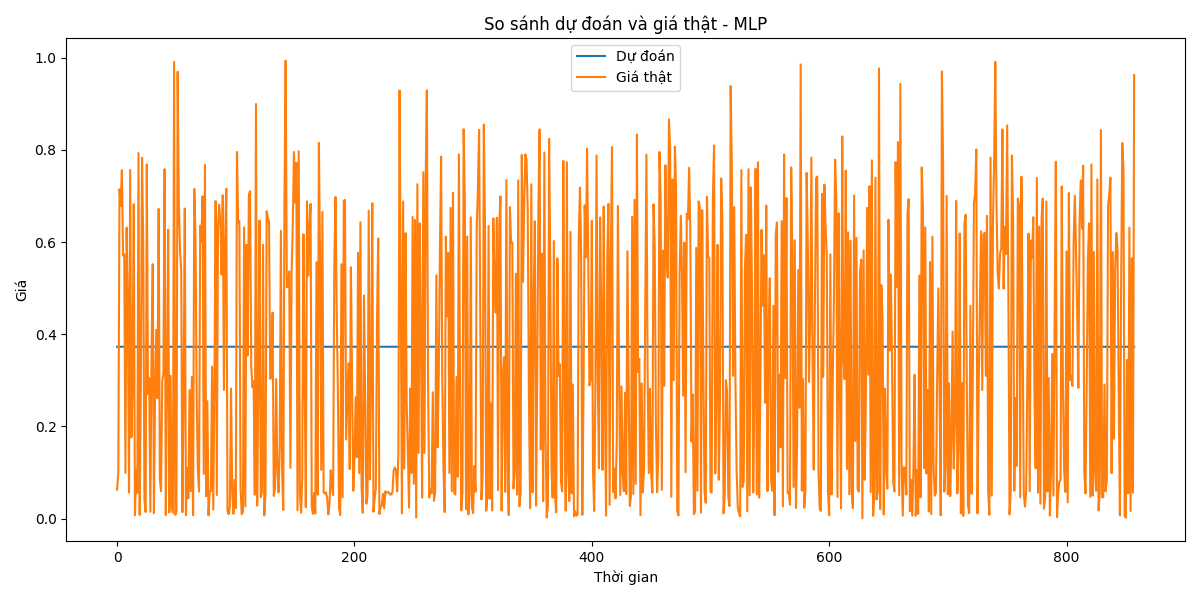
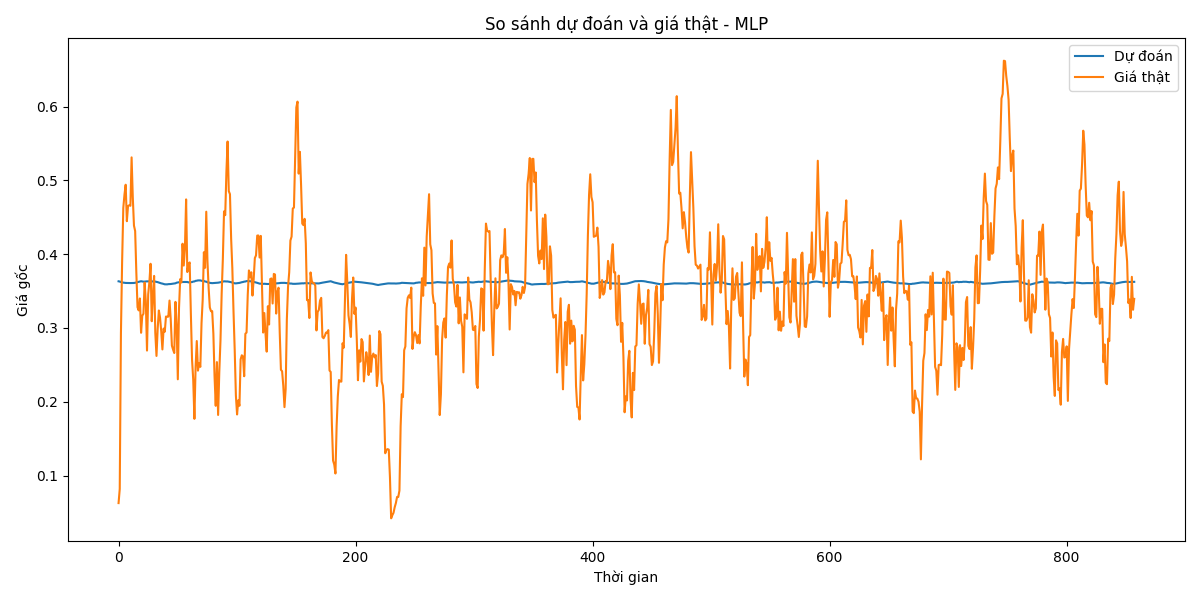
Update Final (Exercise2)

diff --git a/stock_prediction.py b/stock_prediction.py
@@ -7,7 +7,7 @@ from sklearn.model_selection import train_test_split, GridSearchCV, learning_cur
 from sklearn.metrics import mean_squared_error, r2_score
 import tensorflow as tf
 from tensorflow.keras.models import Sequential
-from tensorflow.keras.layers import Dense, LSTM, GRU, Dropout, BatchNormalization, Input
+from tensorflow.keras.layers import Dense, LSTM, GRU, Dropout, BatchNormalization, Input, LeakyReLU, Bidirectional, LayerNormalization
 from tensorflow.keras.callbacks import EarlyStopping
 from tensorflow.keras.regularizers import l1_l2
 from sklearn.linear_model import Ridge, Lasso, LinearRegression
@@ -112,45 +112,51 @@ def calculate_bollinger_bands(prices, window=20):
 
 def create_mlp_model(input_shape):
     """
-    Tạo mô hình MLP cải tiến
+    Tạo mô hình MLP cải tiến hơn: nhiều layer hơn, units lớn hơn, thêm BatchNormalization, Dropout, LeakyReLU
     """
-    model = Sequential([
-        Input(shape=input_shape),
-        Dense(128, activation='relu', 
-              kernel_regularizer=l1_l2(l1=0.01, l2=0.01)),
-        BatchNormalization(),
-        Dropout(0.3),
-        Dense(64, activation='relu',
-              kernel_regularizer=l1_l2(l1=0.01, l2=0.01)),
-        BatchNormalization(),
-        Dropout(0.3),
-        Dense(32, activation='relu',
-              kernel_regularizer=l1_l2(l1=0.01, l2=0.01)),
-        BatchNormalization(),
-        Dropout(0.3),
-        Dense(1)
-    ])
-    model.compile(optimizer='adam', loss='mse')
+    model = Sequential()
+    model.add(Input(shape=input_shape))
+    model.add(Dense(256))
+    model.add(LeakyReLU(alpha=0.1))
+    model.add(BatchNormalization())
+    model.add(Dropout(0.4))
+    model.add(Dense(128))
+    model.add(LeakyReLU(alpha=0.1))
+    model.add(BatchNormalization())
+    model.add(Dropout(0.3))
+    model.add(Dense(64))
+    model.add(LeakyReLU(alpha=0.1))
+    model.add(BatchNormalization())
+    model.add(Dropout(0.2))
+    model.add(Dense(32))
+    model.add(LeakyReLU(alpha=0.1))
+    model.add(BatchNormalization())
+    model.add(Dropout(0.1))
+    model.add(Dense(1))
+    model.compile(optimizer=tf.keras.optimizers.Adam(learning_rate=0.0005), loss='mse')
     return model
 
 def create_rnn_model(input_shape):
     """
-    Tạo mô hình RNN cải tiến: Kết hợp LSTM và GRU, tăng số units, thêm BatchNormalization, giảm learning rate, điều chỉnh Dropout.
+    Tạo mô hình RNN cải tiến sâu hơn: Nhiều lớp Bidirectional LSTM và GRU, thêm LayerNormalization, Dropout lớn hơn, thử Attention nếu có, learning rate scheduler.
     """
-    model = Sequential([
-        Input(shape=input_shape),
-        LSTM(128, return_sequences=True, kernel_regularizer=l1_l2(l1=0.005, l2=0.005)),
-        BatchNormalization(),
-        Dropout(0.4),
-        GRU(64, return_sequences=True, kernel_regularizer=l1_l2(l1=0.005, l2=0.005)),
-        BatchNormalization(),
-        Dropout(0.3),
-        GRU(32, kernel_regularizer=l1_l2(l1=0.005, l2=0.005)),
-        BatchNormalization(),
-        Dropout(0.2),
-        Dense(1)
-    ])
-    optimizer = tf.keras.optimizers.Adam(learning_rate=0.0005)
+    model = Sequential()
+    model.add(Input(shape=input_shape))
+    model.add(Bidirectional(LSTM(128, return_sequences=True, kernel_regularizer=l1_l2(l1=0.002, l2=0.002))))
+    model.add(LayerNormalization())
+    model.add(Dropout(0.5))
+    model.add(Bidirectional(LSTM(64, return_sequences=True, kernel_regularizer=l1_l2(l1=0.002, l2=0.002))))
+    model.add(LayerNormalization())
+    model.add(Dropout(0.4))
+    model.add(Bidirectional(GRU(32, return_sequences=True, kernel_regularizer=l1_l2(l1=0.002, l2=0.002))))
+    model.add(LayerNormalization())
+    model.add(Dropout(0.3))
+    model.add(GRU(16, return_sequences=False, kernel_regularizer=l1_l2(l1=0.002, l2=0.002)))
+    model.add(LayerNormalization())
+    model.add(Dropout(0.2))
+    model.add(Dense(16, activation='relu'))
+    model.add(Dense(1))
+    optimizer = tf.keras.optimizers.Adam(learning_rate=0.0002)
     model.compile(optimizer=optimizer, loss='mse')
     return model
 
@@ -399,14 +405,43 @@ def plot_results(results, mlp_history, rnn_history, y_test, X_train_reshaped, y_
     # 4. Vẽ dự đoán so với giá thật cho mỗi mô hình
     for model_name in models:
         plt.figure(figsize=(12, 6))
-        plt.plot(results[model_name]['y_pred_test'], label='Dự đoán')
-        plt.plot(y_test, label='Giá thật')
+        # Làm mượt dữ liệu bằng rolling mean
+        y_pred_smooth = pd.Series(results[model_name]['y_pred_test']).rolling(window=10, min_periods=1).mean()
+        y_test_smooth = pd.Series(y_test).rolling(window=10, min_periods=1).mean()
+        plt.plot(y_pred_smooth, label='Dự đoán')
+        plt.plot(y_test_smooth, label='Giá thật')
         plt.title(f'So sánh dự đoán và giá thật - {model_name}')
         plt.xlabel('Thời gian')
-        plt.ylabel('Giá')
+        plt.ylabel('Giá gốc')
         plt.legend()
         plt.tight_layout()
         plt.savefig(f'{model_name}_predictions.png')
+        plt.close()
+
+        # 4.1. Vẽ sai số tuyệt đối (absolute error)
+        abs_error = np.abs(results[model_name]['y_pred_test'] - y_test)
+        plt.figure(figsize=(12, 4))
+        plt.plot(abs_error, color='red', label='Sai số tuyệt đối')
+        plt.title(f'Sai số tuyệt đối |dự đoán - giá thật| - {model_name}')
+        plt.xlabel('Thời gian')
+        plt.ylabel('Sai số tuyệt đối')
+        plt.legend()
+        plt.tight_layout()
+        plt.savefig(f'{model_name}_absolute_error.png')
+        plt.close()
+        
+        # 4.3. Scatter plot dự đoán vs giá thật
+        plt.figure(figsize=(6, 6))
+        plt.scatter(results[model_name]['y_pred_test'], y_test, alpha=0.5, s=10, label='Dự đoán vs Giá thật')
+        min_val = min(np.min(results[model_name]['y_pred_test']), np.min(y_test))
+        max_val = max(np.max(results[model_name]['y_pred_test']), np.max(y_test))
+        plt.plot([min_val, max_val], [min_val, max_val], 'k--', lw=2, label='Đường chéo')
+        plt.xlabel('Giá dự đoán')
+        plt.ylabel('Giá thật')
+        plt.title(f'Scatter plot: Dự đoán vs Giá thật - {model_name}')
+        plt.legend()
+        plt.tight_layout()
+        plt.savefig(f'{model_name}_scatter.png')
         plt.close()
     
     # In báo cáo chi tiết
